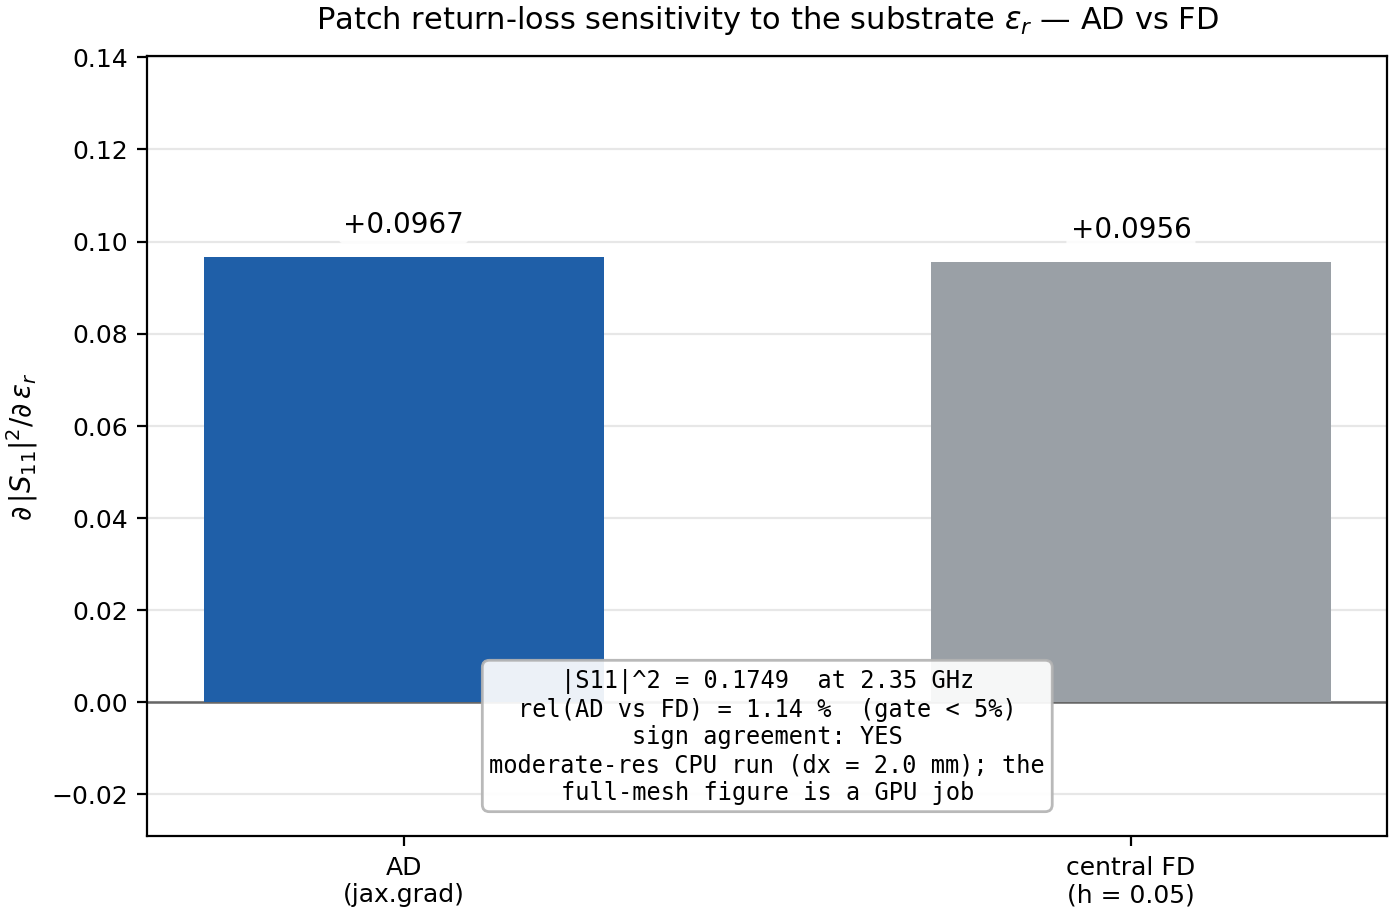
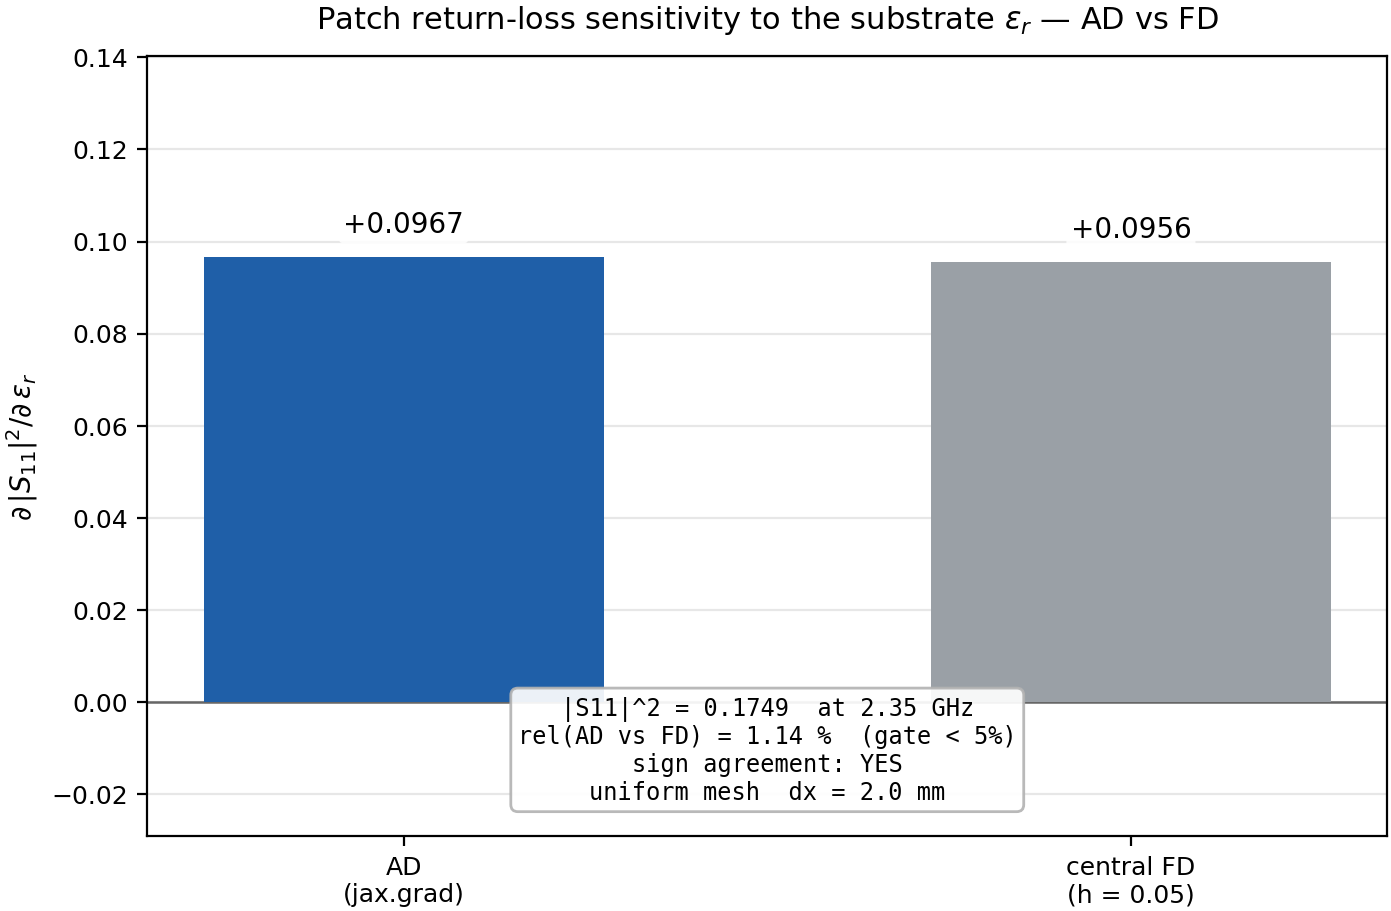
gallery v3: clean patch AD meta-language, add waveguide geometry fig, 3-case index
- patch autodiff.png + page: drop "GPU job / moderate-res CPU" meta-note; state
  the uniform 2 mm AD mesh factually (AD +0.0967 vs FD +0.0956, 1.14%)
- waveguide: add a real 2D make_geometry() (transverse a x b cross-section +
  longitudinal ports/reference-planes/CPML view) replacing the empty 3D wireframe;
  promote Autodiff to a top-level section
- index.mdx: restore the 3rd (waveguide) card, add a differentiable-FDTD framing
  to the intro, and replace the GPU/"nothing runs in your browser" footer with the
  same clean attribution the case pages use
- patch "Next" -> waveguide (slab -> patch -> waveguide -> slab cycle)
- refresh manifest sha256/size for the regenerated assets

Changed region(s): [[0.34, 0.7069, 0.7728, 0.8913]]

diff --git a/scripts/_gallery_v3_waveguide_figs.py b/scripts/_gallery_v3_waveguide_figs.py
@@ -349,6 +349,95 @@ def make_autodiff():
     return dict(val=val, g_ad=g_ad, g_fd=g_fd, rel=rel, sign_ok=sign_ok)
 
 
+def make_geometry():
+    """Two-panel WR-90 layout, replacing the empty 3D wireframe.
+
+    Left: the transverse a x b cross-section (PEC walls, air fill) with the
+    TE10 half-sine of the transverse E-field sketched across the broad wall.
+    Right: a longitudinal top view down the guide axis showing the two
+    waveguide ports, their reference planes and the CPML at both x ends.
+    """
+    a_mm, b_mm = A_WG * 1e3, B_WG * 1e3
+    Lx_mm = 200.0
+    cpml_mm = 20.0
+    port_lo, port_hi = 40.0, Lx_mm - 40.0
+    ref_lo, ref_hi = 50.0, Lx_mm - 50.0
+
+    fig, (axc, axl) = plt.subplots(
+        1, 2, figsize=(10.5, 3.6),
+        gridspec_kw=dict(width_ratios=[1.0, 3.2]))
+
+    # ---- transverse cross-section (y-z): a (broad) x b (narrow) -----------
+    axc.add_patch(plt.Rectangle((0, 0), a_mm, b_mm, facecolor="#dcecff",
+                                edgecolor="none", zorder=1))
+    axc.add_patch(plt.Rectangle((0, 0), a_mm, b_mm, fill=False,
+                                edgecolor="#222", linewidth=3.0, zorder=3))
+    yy = np.linspace(0, a_mm, 200)
+    half = 0.5 * b_mm + 0.28 * b_mm * np.sin(np.pi * yy / a_mm)
+    axc.plot(yy, half, color="#c1121f", lw=1.6, ls="--", zorder=4)
+    axc.text(a_mm / 2, 1.10 * b_mm, "TE10 E-field",
+             ha="center", va="bottom", fontsize=8.5, color="#c1121f",
+             path_effects=_HALO, zorder=5)
+    axc.annotate("", xy=(0, -0.20 * b_mm), xytext=(a_mm, -0.20 * b_mm),
+                 arrowprops=dict(arrowstyle="<->", color="#333", lw=1.0))
+    axc.text(a_mm / 2, -0.34 * b_mm, f"a = {a_mm:.2f} mm",
+             ha="center", va="top", fontsize=9)
+    axc.annotate("", xy=(-0.13 * a_mm, 0), xytext=(-0.13 * a_mm, b_mm),
+                 arrowprops=dict(arrowstyle="<->", color="#333", lw=1.0))
+    axc.text(-0.17 * a_mm, b_mm / 2, f"b = {b_mm:.2f} mm", ha="right",
+             va="center", rotation=90, fontsize=9)
+    axc.text(a_mm / 2, b_mm / 2, "air", ha="center", va="center",
+             fontsize=9, color="#33506e", path_effects=_HALO)
+    axc.set_xlim(-0.46 * a_mm, 1.06 * a_mm)
+    axc.set_ylim(-0.50 * b_mm, 1.40 * b_mm)
+    axc.set_aspect("equal")
+    axc.set_title("Cross-section (PEC walls)")
+    axc.axis("off")
+
+    # ---- longitudinal top view (x-y at z = b/2) ---------------------------
+    axl.add_patch(plt.Rectangle((0, 0), Lx_mm, a_mm, facecolor="#dcecff",
+                                edgecolor="none", zorder=1))
+    for x0 in (0.0, Lx_mm - cpml_mm):
+        axl.add_patch(plt.Rectangle((x0, 0), cpml_mm, a_mm, facecolor="#f3c9c0",
+                                    edgecolor="none", alpha=0.85, zorder=2))
+    axl.text(cpml_mm / 2, a_mm * 1.12, "CPML", ha="center", va="bottom",
+             fontsize=8.5, color="#8a2d1c")
+    axl.text(Lx_mm - cpml_mm / 2, a_mm * 1.12, "CPML", ha="center", va="bottom",
+             fontsize=8.5, color="#8a2d1c")
+    axl.plot([0, Lx_mm], [0, 0], color="#222", lw=3.0, zorder=4)
+    axl.plot([0, Lx_mm], [a_mm, a_mm], color="#222", lw=3.0, zorder=4)
+    axl.plot([port_lo, port_lo], [0, a_mm], color="#1f6f3f", lw=2.2, zorder=5)
+    axl.plot([port_hi, port_hi], [0, a_mm], color="#1f6f3f", lw=2.2, zorder=5)
+    axl.annotate("", xy=(port_lo + 24, a_mm / 2), xytext=(port_lo + 4, a_mm / 2),
+                 arrowprops=dict(arrowstyle="-|>", color="#1f6f3f", lw=2.0),
+                 zorder=6)
+    axl.text(port_lo, -0.18 * a_mm, "left port\nTE10 launch (+x)",
+             ha="center", va="top", fontsize=8.5, color="#1f6f3f")
+    axl.text(port_hi, -0.18 * a_mm, "right port\nmatched load (-x)",
+             ha="center", va="top", fontsize=8.5, color="#1f6f3f")
+    for xr in (ref_lo, ref_hi):
+        axl.plot([xr, xr], [0, a_mm], color="#555", lw=1.0, ls=":", zorder=5)
+    axl.text(ref_lo, a_mm * 1.04, "ref", ha="center", va="bottom", fontsize=8,
+             color="#555", path_effects=_HALO)
+    axl.text(ref_hi, a_mm * 1.04, "ref", ha="center", va="bottom", fontsize=8,
+             color="#555", path_effects=_HALO)
+    axl.text(Lx_mm / 2, a_mm / 2, "hollow WR-90 guide  (air)", ha="center",
+             va="center", fontsize=9.5, color="#33506e", path_effects=_HALO,
+             zorder=6)
+    axl.set_xlim(-6, Lx_mm + 6)
+    axl.set_ylim(-0.62 * a_mm, 1.30 * a_mm)
+    axl.set_xlabel("propagation axis x  (mm)")
+    axl.set_title("Longitudinal view: ports, reference planes, CPML")
+    axl.set_yticks([])
+    for s in ("top", "left", "right"):
+        axl.spines[s].set_visible(False)
+
+    out = os.path.join(ASSETS, "geometry.png")
+    fig.savefig(out, dpi=200, bbox_inches="tight", pad_inches=0.02)
+    plt.close(fig)
+    print("wrote", out)
+
+
 def register_v3_assets(case_id, new_assets):
     """Add/refresh v3 figure entries in a case manifest.json, in place.
 
@@ -388,6 +477,8 @@ def register_v3_assets(case_id, new_assets):
 
 if __name__ == "__main__":
     which = sys.argv[1] if len(sys.argv) > 1 else "all"
+    if which in ("all", "geometry"):
+        make_geometry()
     if which in ("all", "field"):
         make_field()
     if which in ("all", "validation"):
@@ -396,6 +487,7 @@ if __name__ == "__main__":
         make_autodiff()
     if which in ("all", "manifest"):
         register_v3_assets("waveguide_wr90", [
+            ("geometry.png", "geometry-png"),
             ("field_te10.png", "field-map-png"),
             ("validation.png", "validation-png"),
             ("autodiff.png", "autodiff-png"),

diff --git a/scripts/_gallery_v3_patch_figs.py b/scripts/_gallery_v3_patch_figs.py
@@ -598,8 +598,7 @@ def make_autodiff():
     txt = (f"|S11|^2 = {val:.4f}  at {F0_S11_AD/1e9:.2f} GHz\n"
            f"rel(AD vs FD) = {rel*100:.2f} %  (gate < 5%)\n"
            f"sign agreement: {'YES' if sign_ok else 'NO'}\n"
-           f"moderate-res CPU run (dx = {dx_ad*1e3:.1f} mm); the\n"
-           f"full-mesh figure is a GPU job")
+           f"uniform mesh  dx = {dx_ad*1e3:.1f} mm")
     ax.text(0.5, 0.04, txt, transform=ax.transAxes, fontsize=8.5,
             va="bottom", ha="center", family="monospace",
             bbox=dict(boxstyle="round", fc="white", ec="0.7", alpha=0.92))